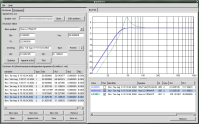
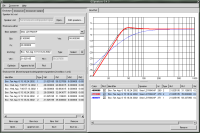
see ChangeLosee ChangeLog

diff --git a/gspeakers2/html/index.html b/gspeakers2/html/index.html
@@ -29,15 +29,22 @@ for a lot of different speakers in a lot of different boxes. However, in the fir
 version only a (pretty large) subset of these features are implemented. <br>&nbsp;<br>
 
 <h2>Download</h2>
+<a href="http://sourceforge.net/project/showfiles.php?group_id=42280&release_id=107067">GSpeakers-0.4 (gtkmm-2.0)</a><br>
 <a href="http://sourceforge.net/project/showfiles.php?group_id=42280&release_id=107067">GSpeakers-0.3 (gtkmm-2.0)</a><br>
 <a href="http://sourceforge.net/project/showfiles.php?group_id=42280&release_id=106524">GSpeakers-0.2 (gtkmm-2.0)</a><br>
 <a href="http://sourceforge.net/project/showfiles.php?group_id=42280&release_id=68786">GSpeakers-0.1 (gtkmm-1.2)</a><br>&nbsp;<br>
 
-Use GSpeakers-0.3 if you want to try something new. You need libxml2 and 
-a recent Gtkmm-1.3.* (>=1.3.21) to compile GSpeakers-0.3. Please submit any 
+Use GSpeakers-0.4 if you want to try something new. You need libxml2 and 
+a recent Gtkmm-1.3.* (I use gtkmm-1.3.22 on my system) to compile GSpeakers-0.4. Please submit any 
 comments to <a href="mailto:dss@home.se">me</a>.<br>&nbsp;<br>
 
 <h2>News</h2>
+<b>2002-08-31</b>:
+Released GSpeakers-0.4 today. Now you can use GSpeakers to calculate simple crossover networks. 
+However, the real fun will begin in next release where you will be able to plot the frequency 
+response of a filter. This will be a very powerful feature. For now, download the new version 
+and play around with it. Also, take a look at the new <a href="screenshots.html">screenshots</a>!<br>&nbsp;<br>
+
 <b>2002-08-25</b>: 
 Released GSpeakers-0.3 today. I've done a lot of work on a new GUI. Tell me what you think about it. 
 I've also made some preparations for easier development down the road. Also I've inserted some 

diff --git a/gspeakers2/html/screenshots.html b/gspeakers2/html/screenshots.html
@@ -18,11 +18,23 @@
 
 <h2>Screenshots</h2>
 
-<b>GSpeakers-0.3 (Gtkmm-2.0)</b><br>
+<b>GSpeakers-0.4 (Gtkmm-2.0)</b><br>
 <a href="gspeakers2-1.png">
 <img src="gspeakers2-1_small.png"></a><br>
 <a href="gspeakers2-1.png">Larger screenshot</a>, 
-<i>The new UI in version 0.3</i><br>&nbsp;<br>
+<i>The enclosure editor</i><br>&nbsp;<br>
+
+<b>GSpeakers-0.4 (Gtkmm-2.0)</b><br>
+<a href="gspeakers2-2.png">
+<img src="gspeakers2-2_small.png"></a><br>
+<a href="gspeakers2-2.png">Larger screenshot</a>, 
+<i>This is the notebookpage where you can see the component in the crossover</i><br>&nbsp;<br>
+
+<b>GSpeakers-0.4 (Gtkmm-2.0)</b><br>
+<a href="gspeakers2-3.png">
+<img src="gspeakers2-3_small.png"></a><br>
+<a href="gspeakers2-3.png">Larger screenshot</a>, 
+<i>The Crossover wizard, use this utility to calculate simple crossover networks.</i><br>&nbsp;<br>
 
 <b>GSpeakers-0.1 (Gtkmm-1.2)</b><br>
 <a href="gspeakers1.png">

diff --git a/gspeakers2/html/needhelp.html b/gspeakers2/html/needhelp.html
@@ -28,9 +28,7 @@ TODO-file contains mostly improvements to the current source tree. <br>&nbsp;<br
 <b>Roadmap</b><br>
 The roadmap contains features that will be added in future releases of GSpeakers.<br>&nbsp;<br>
 
-<b>GSpeakers-0.3.*:</b> Bugfix current release.<br>&nbsp;<br>
-
-<b>GSpeakers-0.4:</b> Add filter control panel, a simple crossover network design tool.<br>&nbsp;<br>
+<b>GSpeakers-0.4.*:</b> Bugfix current release.<br>&nbsp;<br>
 
 <b>GSpeakers-0.5:</b> Add SPICE-simulations of crossover networks.<br>&nbsp;<br>
 

diff --git a/gspeakers2/src/crossoverhistory.cc b/gspeakers2/src/crossoverhistory.cc
@@ -102,7 +102,7 @@ CrossoverHistory::CrossoverHistory() :
   Gtk::TreePath path(gpath);
   Gtk::TreeRow row = *(m_refListStore->get_iter(path));
   selection->select(row);
-
+  signal_new_crossover.connect(slot(*this, &CrossoverHistory::on_new_from_menu));
 }
 
 bool CrossoverHistory::on_delete_event(GdkEventAny *event)
@@ -118,6 +118,7 @@ void CrossoverHistory::on_part_modified() {
 CrossoverHistory::~CrossoverHistory()
 {
   g_settings.setValue("CrossoverListXml", m_filename);
+  g_settings.save();
 }
 
 void CrossoverHistory::on_open_xml()
@@ -288,6 +289,37 @@ void CrossoverHistory::on_new_copy()
   m_SaveButton.set_sensitive(true);
 }
 
+void CrossoverHistory::on_new_from_menu(int type)
+{
+  cout << "CrossoverHistory::on_new_from_menu: " << type << endl;
+  /* add new crossover of appropriate type here */
+  time_t t;
+  time(&t);
+  /* convert to nice time format */
+  string s = string(ctime(&t));
+  int length = s.length();
+  s[length-1] = '\0';
+  
+  Crossover c(type, "Crossover " + s);
+
+  /* Add to liststore */
+  liststore_add_item(c);
+  m_crossover_list.crossover_list()->push_back(c);
+  
+  Glib::RefPtr<Gtk::TreeSelection> refSelection = m_TreeView.get_selection();
+ 
+  /* make our new crossover the selected crossover */
+  char *str = NULL;
+  GString *buffer = g_string_new(str);
+  g_string_printf(buffer, "%d", m_crossover_list.crossover_list()->size() - 1);
+  GtkTreePath *gpath = gtk_tree_path_new_from_string(buffer->str);
+  Gtk::TreePath path(gpath);
+  Gtk::TreeRow row = *(m_refListStore->get_iter(path));
+  refSelection->select(row);
+  m_SaveButton.set_sensitive(true);
+
+}
+
 void CrossoverHistory::on_new()
 {
   Crossover c;
@@ -334,8 +366,13 @@ void CrossoverHistory::on_save()
     on_save_as();
     new_xml_pressed = false;
   } else {
-    m_crossover_list.to_xml(m_filename);
-    m_SaveButton.set_sensitive(false);
+    try {
+      m_crossover_list.to_xml(m_filename);
+      m_SaveButton.set_sensitive(false);
+    } catch (GSpeakersException e) {
+      Gtk::MessageDialog m(e.what(), Gtk::MESSAGE_ERROR);
+      m.run();
+    }
   }
 }
 
@@ -356,11 +393,16 @@ void CrossoverHistory::on_save_as()
 void CrossoverHistory::on_save_as_ok(Gtk::FileSelection *f)
 {
   cout << "save as ok" << endl;
-  m_crossover_list.to_xml(f->get_filename());
-  f->hide();
-  m_filename = f->get_filename();
-  set_label("Crossover list [" + m_filename + "]");
-  m_SaveButton.set_sensitive(false);
+  try {
+    m_crossover_list.to_xml(f->get_filename());
+    f->hide();
+    m_filename = f->get_filename();
+    set_label("Crossover list [" + m_filename + "]");
+    m_SaveButton.set_sensitive(false);
+  } catch (GSpeakersException e) {
+      Gtk::MessageDialog m(e.what(), Gtk::MESSAGE_ERROR);
+      m.run();
+  }
 }
 
 void CrossoverHistory::on_remove()

diff --git a/gspeakers2/src/mainwindow.cc b/gspeakers2/src/mainwindow.cc
@@ -19,6 +19,7 @@
 
 #include "../config.h"
 #include "mainwindow.h"
+#include "crossover.h"
 
 MainWindow::MainWindow() :
   m_main_vbox(),
@@ -65,13 +66,20 @@ MainWindow::MainWindow() :
   }
   {
   	Gtk::Menu::MenuList& menulist = m_crossover_menu.items();
-
-  	menulist.push_back( Gtk::Menu_Helpers::MenuElem("New lowpass crossover") );
-    menulist.push_back( Gtk::Menu_Helpers::MenuElem("New highpass crossover") );
-    menulist.push_back( Gtk::Menu_Helpers::MenuElem("New 2-way crossover") );
-    menulist.push_back( Gtk::Menu_Helpers::MenuElem("New 2.5-way crossover") );
-    menulist.push_back( Gtk::Menu_Helpers::MenuElem("New 3-way crossover") );
-    menulist.push_back( Gtk::Menu_Helpers::MenuElem("New 4-way crossover") );
+    menulist.push_back( Gtk::Menu_Helpers::MenuElem("New _highpass crossover", 
+                        bind<int>(slot(*this, &MainWindow::on_crossover_menu_action), CROSSOVER_TYPE_LOWPASS) ) );
+    menulist.push_back( Gtk::Menu_Helpers::MenuElem("New _subsonic crossover", 
+                        bind<int>(slot(*this, &MainWindow::on_crossover_menu_action) , CROSSOVER_TYPE_SUBSONIC) ) );
+    menulist.push_back( Gtk::Menu_Helpers::MenuElem("New _highpass crossover", 
+                        bind<int>(slot(*this, &MainWindow::on_crossover_menu_action), CROSSOVER_TYPE_HIGHPASS) ) );
+        menulist.push_back( Gtk::Menu_Helpers::MenuElem("New _2-way crossover", 
+                        bind<int>(slot(*this, &MainWindow::on_crossover_menu_action), CROSSOVER_TYPE_TWOWAY) ) );
+    menulist.push_back( Gtk::Menu_Helpers::MenuElem("New 2._5-way crossover", 
+                        bind<int>(slot(*this, &MainWindow::on_crossover_menu_action), CROSSOVER_TYPE_LOWPASS | CROSSOVER_TYPE_TWOWAY) ) );
+    menulist.push_back( Gtk::Menu_Helpers::MenuElem("New _3-way crossover", 
+                        bind<int>(slot(*this, &MainWindow::on_crossover_menu_action), CROSSOVER_TYPE_THREEWAY) ) );
+    menulist.push_back( Gtk::Menu_Helpers::MenuElem("New _4-way crossover", 
+                        bind<int>(slot(*this, &MainWindow::on_crossover_menu_action), CROSSOVER_TYPE_FOURWAY) ) );
   }
   {
   	Gtk::Menu::MenuList& menulist = m_help_menu.items();
@@ -153,4 +161,12 @@ void MainWindow::on_about()
   Gtk::MessageDialog m(*this, "GSpeakers-" + string(VERSION) + "\n\n(C) Daniel Sundberg <dss@home.se>\n\nhttp://gspeakers.sf.net", 
                         Gtk::MESSAGE_INFO, Gtk::BUTTONS_OK, true, true);
   m.run();
+}
+
+void MainWindow::on_crossover_menu_action(int type) 
+{
+  cout << "MainWindow::on_crossover_menu_action: " << type << endl;
+  signal_new_crossover(type);
+  /* Switch to crossover wizard page since you probably want to start there */
+  m_cpanel_notebook.set_current_page(2);
 }

diff --git a/gspeakers2/src/filterlinkframe.cc b/gspeakers2/src/filterlinkframe.cc
@@ -150,8 +150,14 @@ FilterLinkFrame::FilterLinkFrame(Net *net, const string& description, SpeakerLis
   hbox->pack_start((*manage(new Gtk::Label("Damping: "))));
   hbox->pack_start(m_damp_spinbutton);
   
-  /* Set damp value in dB here */
-  
+  if (m_net->get_has_damp() == true) {
+    /* Set damp value in dB here */
+    double r_ser = m_net->get_damp_R1().get_value();
+    Speaker speaker = m_speaker_list->get_speaker_by_id_string(m_speaker_combo.get_entry()->get_text());
+
+    m_damp_spinbutton.set_value(round(20 * log10(r_ser / speaker.get_rdc() + 1)));
+  }  
+
   hbox->pack_start((*manage(new Gtk::Label("dB"))));
   
   add(m_vbox);
@@ -406,7 +412,7 @@ void FilterLinkFrame::on_param_changed()
     if (m_imp_corr_checkbutton.get_active() == true) {
       m_net->set_has_imp_corr(true);
       /* calc imp corr here */
-      m_net->get_imp_corr_C().set_value(speaker.get_lvc() * 1000 / pow(speaker.get_rdc(), 2) * 1000000);
+      m_net->get_imp_corr_C().set_value((speaker.get_lvc() / 1000) / pow(speaker.get_rdc(), 2) * 1000000);
       m_net->get_imp_corr_C().set_unit("u");
       m_net->get_imp_corr_R().set_value(speaker.get_rdc());
     } else {
@@ -415,9 +421,11 @@ void FilterLinkFrame::on_param_changed()
     if (m_damp_spinbutton.get_value_as_int() > 0) {
       m_net->set_has_damp(true);
       
-      /* TODO: fix these calculations */
-      m_net->get_damp_R1().set_value(m_damp_spinbutton.get_value_as_int());
-      m_net->get_damp_R2().set_value(m_damp_spinbutton.get_value_as_int());
+      /* Calculate resistors for damping network */
+      double r_ser = speaker.get_rdc() * (pow(10, m_damp_spinbutton.get_value() / 20) - 1);
+      double r_par = speaker.get_rdc() + pow(speaker.get_rdc(), 2) / r_ser;
+      m_net->get_damp_R1().set_value(r_ser);
+      m_net->get_damp_R2().set_value(r_par);
       
     } else {
       m_net->set_has_damp(false);
@@ -674,4 +682,18 @@ vector<double> FilterLinkFrame::get_filter_params(int net_name_type, int net_ord
       break;
   }
   return nums;
+}
+
+/*
+ * Helper function to convert double->int and round it to nearest int
+ *
+ * The compiler wouldn't accept round (in math.h) so...
+ */
+int FilterLinkFrame::round( double x ) {
+  if ( ( x - (int)x ) >= 0.5 ) {
+    return (int)( (int)x + 1 );
+  } else {
+    return (int)(x);
+  }
+  return 0;
 }

diff --git a/gspeakers2/src/boxhistory.cc b/gspeakers2/src/boxhistory.cc
@@ -334,8 +334,13 @@ void BoxHistory::on_save()
     on_save_as();
     new_xml_pressed = false;
   } else {
-    m_box_list.to_xml(m_filename);
-    m_SaveButton.set_sensitive(false);
+    try {
+      m_box_list.to_xml(m_filename);
+      m_SaveButton.set_sensitive(false);
+    } catch (GSpeakersException e) {
+      Gtk::MessageDialog m(e.what(), Gtk::MESSAGE_ERROR);
+      m.run();
+    }
   }
 }
 
@@ -356,12 +361,17 @@ void BoxHistory::on_save_as()
 void BoxHistory::on_save_as_ok(Gtk::FileSelection *f)
 {
   //cout << "save as ok" << endl;
-  m_box_list.to_xml(f->get_filename());
-  f->hide();
-  m_filename = f->get_filename();
-  set_label("Enclosure list [" + m_filename + "]");
-  g_settings.setValue("BoxListXml", m_filename);
-  m_SaveButton.set_sensitive(false);
+  try {
+    m_box_list.to_xml(f->get_filename());
+    f->hide();
+    m_filename = f->get_filename();
+    set_label("Enclosure list [" + m_filename + "]");
+    g_settings.setValue("BoxListXml", m_filename);
+    m_SaveButton.set_sensitive(false);
+  } catch (GSpeakersException e) {
+      Gtk::MessageDialog m(e.what(), Gtk::MESSAGE_ERROR);
+      m.run();
+  }
 }
 
 void BoxHistory::on_remove()

diff --git a/gspeakers2/src/speakereditor.cc b/gspeakers2/src/speakereditor.cc
@@ -250,8 +250,13 @@ void Speaker_ListStore::on_save()
     new_xml_pressed = false;
   } else {
     cout << "SpeakerEditor: Filename = " << m_filename << endl;
-    m_speaker_list->to_xml(m_filename);
-    m_SaveButton.set_sensitive(false);
+    try {
+      m_speaker_list->to_xml(m_filename);
+      m_SaveButton.set_sensitive(false);
+    } catch (GSpeakersException e) {
+      Gtk::MessageDialog m(e.what(), Gtk::MESSAGE_ERROR);
+      m.run();
+    }
   }
 }
 
@@ -272,10 +277,15 @@ void Speaker_ListStore::on_save_as()
 void Speaker_ListStore::on_save_as_ok(Gtk::FileSelection *f)
 {
   //cout << "save as ok" << endl;
-  m_speaker_list->to_xml(f->get_filename());
-  f->hide();
-  m_filename = f->get_filename();
-  signal_speakerlist_loaded(m_filename);
+  try {
+    m_speaker_list->to_xml(f->get_filename());
+    f->hide();
+    m_filename = f->get_filename();
+    signal_speakerlist_loaded(m_filename);
+  } catch (GSpeakersException e) {
+      Gtk::MessageDialog m(e.what(), Gtk::MESSAGE_ERROR);
+      m.run();
+  }
 }
 
 void Speaker_ListStore::on_selection_changed()

diff --git a/gspeakers2/src/common.h b/gspeakers2/src/common.h
@@ -98,5 +98,6 @@ extern Signal1<void, int> signal_select_plot;
 /* Define two signals for crossover parts updates */
 extern Signal0<void> signal_net_modified_by_wizard;  // listen to this in crossover treeview
 extern Signal1<void, Net *> signal_net_modified_by_user;    // listan to this in filter wizard
+extern Signal1<void, int> signal_new_crossover;
 
 #endif //__GFILTER_COMMON_H

diff --git a/gspeakers2/src/common.cc b/gspeakers2/src/common.cc
@@ -33,6 +33,7 @@ Signal1<void, int> signal_hide_box_plot;
 Signal1<void, int> signal_select_plot;
 Signal0<void> signal_net_modified_by_wizard;
 Signal1<void, Net *> signal_net_modified_by_user;
+Signal1<void, int> signal_new_crossover;
 
 namespace GSpeakers {
   Glib::ustring double_to_ustring(double d) 

diff --git a/gspeakers2/src/crossoverlist.cc b/gspeakers2/src/crossoverlist.cc
@@ -76,7 +76,9 @@ void CrossoverList::to_xml(string filename)
   }
 
   /* Save xml file */
-  xmlSaveFile(filename.c_str(), doc);
+  if (xmlSaveFile(filename.c_str(), doc) == -1) {
+    throw GSpeakersException("CrossoverList: Could not save to " + filename);
+  }
 }
 
 

diff --git a/gspeakers2/src/speakerlist.cc b/gspeakers2/src/speakerlist.cc
@@ -77,7 +77,9 @@ void SpeakerList::to_xml(string filename)
   }
 
   /* Save xml file */
-  xmlSaveFile(filename.c_str(), doc);
+  if (xmlSaveFile(filename.c_str(), doc)  == -1) {
+    throw GSpeakersException("SpeakerList: Could not save to " + filename);
+  }
 }
 
 
